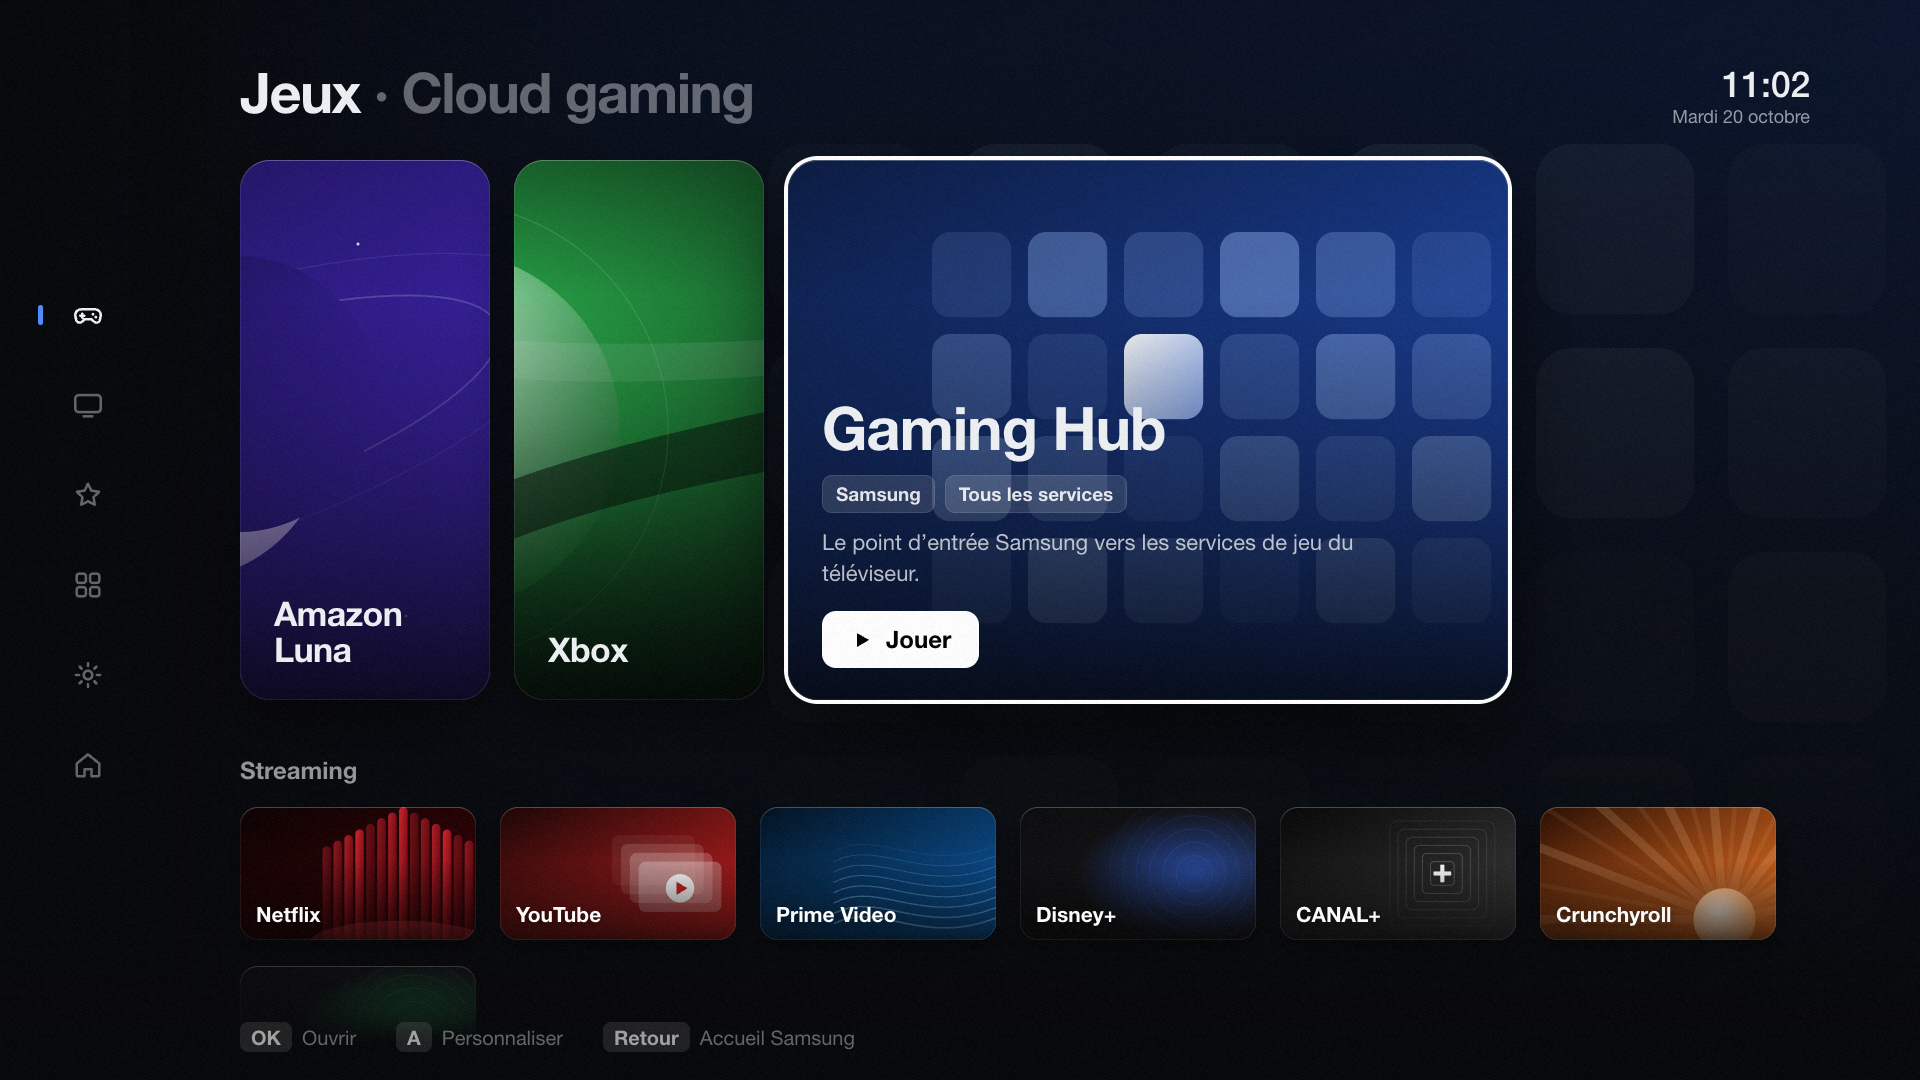
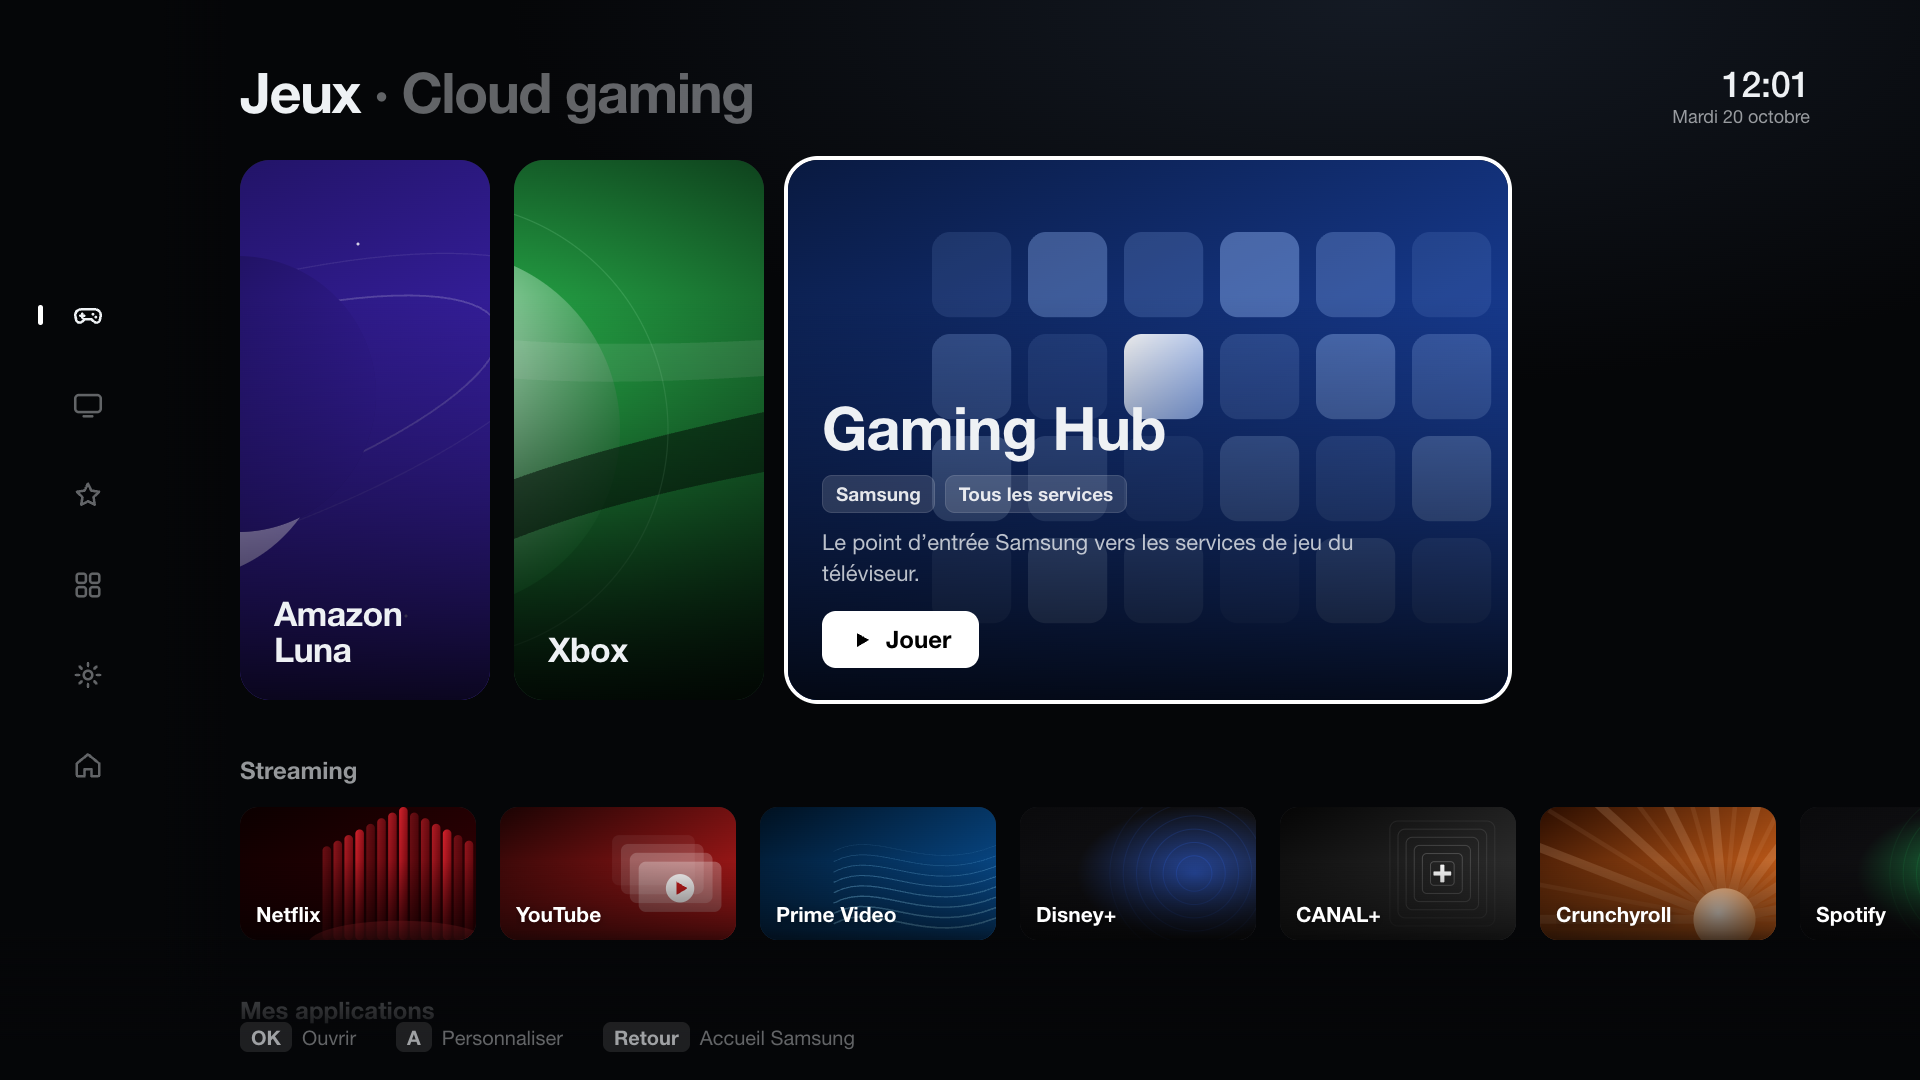
Version allégée pour la TV (lenteur constatée sur le QE55Q70B)
Premier essai sur la TV : tout fonctionne mais l'interface rame.
- Suppression des calques plein écran : ambiance animée, voile, grain
- Plus de variable CSS --accent modifiée à chaque déplacement (recalcul de style global)
- Cartes : plus de reflet animé ni d'ombre floue ; anneau de focus net,
  will-change: transform (rastérisée une fois, agrandie par le GPU)
- Carrousel de jeux : plus d'animation de largeur ni de taille de police
- Transitions de défilement raccourcies
- capture.sh : port configurable (PORT=…)
- Docs : plateforme vérifiée sur la TV (Tizen 6.5), résultat du premier essai

Simulation : 37/37 e2e, 19/19 unitaires, ~0,21 ms par appui (contre ~0,31).

diff --git a/app/css/style.css b/app/css/style.css
@@ -29,21 +29,9 @@ html, body {
    Une scène transformée devient le repère des éléments `position: fixed` qu'elle contient. */
 .stage { position: absolute; left: 0; top: 0; width: 1920px; height: 1080px; overflow: hidden; transform-origin: 0 0; background: var(--bg); }
 
-/* --- Ambiance : illustration du service focalisé, très atténuée --- */
-.ambient { position: fixed; top: 0; left: 0; right: 0; bottom: 0; opacity: 0.36; }
-.amb-layer { position: absolute; top: 0; left: 0; right: 0; bottom: 0; opacity: 0; transition: opacity 700ms ease; }
-.amb-layer.is-in { opacity: 1; }
-.amb-layer svg { width: 100%; height: 100%; display: block; }
-.veil {
-  position: fixed; top: 0; left: 0; right: 0; bottom: 0; pointer-events: none;
-  background:
-    linear-gradient(180deg, rgba(5, 6, 8, 0.15) 0%, rgba(5, 6, 8, 0.75) 55%, var(--bg) 100%),
-    linear-gradient(90deg, var(--bg) 0%, rgba(5, 6, 8, 0) 32%);
-}
-.grain {
-  position: fixed; top: 0; left: 0; right: 0; bottom: 0; z-index: 60; pointer-events: none;
-  background: url(../img/grain.png) repeat; opacity: 0.6;
-}
+/* Performance TV (processeur ARM de la TV) : aucun calque plein écran animé, pas de grain,
+   pas d'ombre floue animée, pas d'animation de largeur. Fond fixe peint une seule fois. */
+.stage { background: radial-gradient(ellipse 70% 55% at 72% 0%, #141a24 0%, var(--bg) 65%); }
 
 /* --- Rail --- */
 .rail {
@@ -60,7 +48,7 @@ html, body {
 .ri.is-current { color: var(--text); }
 .ri.is-current::after {
   content: ""; position: absolute; left: -14px; top: 26px; width: 5px; height: 20px; border-radius: 3px;
-  background: var(--accent);
+  background: #fff;
 }
 .ri.is-focused { background: #fff; color: #000; transform: scale(1.08); }
 .ri .tip {
@@ -88,7 +76,7 @@ html, body {
 /* La zone visible commence 80 px avant le contenu : place pour l'agrandissement au focus,
    et la coupure du défilement tombe sous la partie opaque du fondu côté rail. */
 .viewport { position: fixed; top: 0; left: 160px; right: 0; bottom: 0; overflow: hidden; }
-.rows { padding: 64px var(--right) 400px 80px; transition: transform 380ms var(--ease); will-change: transform; }
+.rows { padding: 64px var(--right) 400px 80px; transition: transform 260ms var(--ease); will-change: transform; }
 .row { padding-bottom: 56px; }
 .row.is-notlast { padding-bottom: 26px; }
 .row-title { font-size: 24px; font-weight: 700; color: var(--text-2); margin-bottom: 22px; transition: color 200ms ease; }
@@ -97,22 +85,16 @@ html, body {
 .row-games .row-title span { color: var(--text-3); font-weight: 600; }
 .row-empty { font-size: 22px; color: var(--text-3); padding: 8px 0 4px; }
 .row.is-empty .track { display: none; }
-.track { display: flex; gap: 24px; align-items: flex-start; transition: transform 300ms var(--ease); will-change: transform; }
+.track { display: flex; gap: 24px; align-items: flex-start; transition: transform 220ms var(--ease); will-change: transform; }
 .no-anim { transition: none !important; }
 
 /* --- Cartes (Streaming, favoris, toutes les apps) --- */
 .tile { flex: 0 0 auto; position: relative; }
 .card {
   position: relative; overflow: hidden; background: var(--surface);
-  box-shadow: 0 10px 24px rgba(0, 0, 0, 0.45);
-  transition: transform 240ms var(--ease), box-shadow 240ms var(--ease);
-}
-.card::after {
-  content: ""; position: absolute; top: 0; left: 0; right: 0; bottom: 0; border-radius: inherit; pointer-events: none;
-  box-shadow: inset 0 1px 0 rgba(255, 255, 255, 0.2), inset 0 0 0 1px rgba(255, 255, 255, 0.07);
-  background: linear-gradient(115deg, rgba(255, 255, 255, 0) 30%, rgba(255, 255, 255, 0.2) 46%, rgba(255, 255, 255, 0) 60%);
-  background-size: 260% 100%; background-position: 120% 0; background-repeat: no-repeat;
-  transition: background-position 900ms var(--ease);
+  box-shadow: inset 0 0 0 1px rgba(255, 255, 255, 0.08);
+  transition: transform 160ms var(--ease);
+  will-change: transform; /* rastérisée une fois, agrandie par le GPU au focus */
 }
 .art { position: absolute; top: 0; left: 0; right: 0; bottom: 0; }
 .art svg { width: 100%; height: 100%; display: block; }
@@ -137,25 +119,19 @@ html, body {
 .tile-sm .mono { font-size: 30px; }
 
 .tile.is-focused > .card {
-  transform: scale(1.09) translateY(-6px);
-  box-shadow: 0 0 0 4px #fff, 0 30px 60px rgba(0, 0, 0, 0.7);
+  transform: scale(1.08);
+  box-shadow: 0 0 0 4px #fff;
 }
-.tile.is-focused > .card::after { background-position: -20% 0; }
 
 /* --- Carrousel des jeux : la carte focalisée s'élargit --- */
 .tile-carousel {
   width: 250px; height: 540px; border-radius: 30px; overflow: hidden; background: var(--surface);
-  box-shadow: 0 20px 50px rgba(0, 0, 0, 0.5);
-  transition: width 360ms var(--ease), box-shadow 280ms ease;
-}
-.tile-carousel::after {
-  content: ""; position: absolute; top: 0; left: 0; right: 0; bottom: 0; border-radius: inherit; pointer-events: none;
-  box-shadow: inset 0 1px 0 rgba(255, 255, 255, 0.22), inset 0 0 0 1px rgba(255, 255, 255, 0.08);
+  box-shadow: inset 0 0 0 1px rgba(255, 255, 255, 0.08);
 }
 .tile-carousel .shade { height: 75%; background: linear-gradient(180deg, rgba(0, 0, 0, 0), rgba(0, 0, 0, 0.85)); }
 .info { position: absolute; left: 34px; right: 34px; bottom: 32px; }
-.info .n { font-size: 34px; font-weight: 800; letter-spacing: -0.02em; line-height: 1.08; transition: font-size 300ms var(--ease); }
-.info .more { max-height: 0; opacity: 0; overflow: hidden; transition: opacity 240ms ease 80ms, max-height 300ms var(--ease); }
+.info .n { font-size: 34px; font-weight: 800; letter-spacing: -0.02em; line-height: 1.08; }
+.info .more { display: none; }
 .info .s { margin-top: 14px; font-size: 22px; line-height: 1.4; color: rgba(238, 241, 244, 0.78); width: 580px; }
 .info .cta {
   margin-top: 22px; display: inline-flex; align-items: center; gap: 12px;
@@ -164,8 +140,8 @@ html, body {
 .info .cta svg { font-size: 24px; }
 .tile-carousel.is-open { width: 720px; }
 .tile-carousel.is-open .n { font-size: 60px; white-space: nowrap; }
-.tile-carousel.is-open .more { max-height: 320px; opacity: 1; }
-.tile-carousel.is-focused { box-shadow: 0 0 0 4px #fff, 0 40px 80px rgba(0, 0, 0, 0.7); }
+.tile-carousel.is-open .more { display: block; }
+.tile-carousel.is-focused { box-shadow: 0 0 0 4px #fff; }
 
 .chips { display: flex; gap: 10px; flex-wrap: wrap; margin-top: 16px; }
 .chips span {
@@ -186,7 +162,7 @@ html, body {
 .tag-fav { color: var(--edit); }
 
 .is-launching > .card, .tile-carousel.is-launching { animation: pulse 900ms ease-in-out infinite; }
-@keyframes pulse { 50% { opacity: 0.7; } }
+@keyframes pulse { 50% { opacity: 0.75; } }
 
 /* --- Rangée réglages (pastilles) --- */
 .tile-pill {
@@ -200,10 +176,10 @@ html, body {
 
 /* --- Personnalisation --- */
 .mode-edit .tile.is-focused > .card,
-.mode-edit .tile-carousel.is-focused { box-shadow: 0 0 0 4px var(--edit), 0 30px 60px rgba(0, 0, 0, 0.7); }
+.mode-edit .tile-carousel.is-focused { box-shadow: 0 0 0 4px var(--edit); }
 .mode-edit .tile-pill.is-focused { background: var(--edit); }
-.tile.is-moving > .card { transform: scale(1.14) translateY(-14px); }
-.tile-carousel.is-moving { box-shadow: 0 0 0 6px var(--edit), 0 40px 80px rgba(0, 0, 0, 0.7); }
+.tile.is-moving > .card { transform: scale(1.12); }
+.tile-carousel.is-moving { box-shadow: 0 0 0 6px var(--edit); }
 
 /* Fondu côté rail : une carte qui défile s'efface au lieu d'être coupée net. */
 .leftfade {

diff --git a/app/js/app.js b/app/js/app.js
@@ -51,7 +51,6 @@
   var el = {
     rows: document.getElementById('rows'),
     rail: document.getElementById('rail'),
-    ambient: document.getElementById('ambient'),
     hints: document.getElementById('hints'),
     badge: document.getElementById('modeBadge'),
     time: document.getElementById('clockTime'),
@@ -428,26 +427,6 @@
       if (track) track.classList.remove('no-anim');
     }
 
-    if (tile) setAmbient(tile);
-  }
-
-  // Ambiance : fondu entre deux calques, déclenché après une courte pause (navigation rapide = pas de travail).
-  var ambientTimer = null, ambientKey = null;
-  function setAmbient(tile) {
-    var key = tile.art ? tile.art + '|' + tile.accent : 'none';
-    document.documentElement.style.setProperty('--accent', tile.accent);
-    if (key === ambientKey) return;
-    clearTimeout(ambientTimer);
-    ambientTimer = setTimeout(function () {
-      ambientKey = key;
-      var layer = h('div', 'amb-layer');
-      if (tile.art) layer.innerHTML = A.svg(tile.art, tile.accent);
-      el.ambient.appendChild(layer);
-      void layer.offsetWidth;
-      layer.classList.add('is-in');
-      var olds = Array.prototype.slice.call(el.ambient.children, 0, -1);
-      setTimeout(function () { olds.forEach(function (o) { if (o.parentNode) o.parentNode.removeChild(o); }); }, 750);
-    }, 140);
   }
 
   // ---------------------------------------------------------------------------

diff --git a/dev/index.html b/dev/index.html
@@ -12,8 +12,6 @@
 </head>
 <body>
   <div class="stage" id="stage">
-    <div class="ambient" id="ambient" aria-hidden="true"></div>
-    <div class="veil" aria-hidden="true"></div>
 
     <nav class="rail" id="rail" aria-label="Sections"></nav>
 
@@ -43,7 +41,6 @@
     </div>
 
     <div class="toast" id="toast" role="status" aria-live="polite"></div>
-    <div class="grain" aria-hidden="true"></div>
   </div>
 
   <script src="../dev/tizen-mock.js"></script>

diff --git a/app/index.html b/app/index.html
@@ -10,8 +10,6 @@
 </head>
 <body>
   <div class="stage" id="stage">
-    <div class="ambient" id="ambient" aria-hidden="true"></div>
-    <div class="veil" aria-hidden="true"></div>
 
     <nav class="rail" id="rail" aria-label="Sections"></nav>
 
@@ -41,7 +39,6 @@
     </div>
 
     <div class="toast" id="toast" role="status" aria-live="polite"></div>
-    <div class="grain" aria-hidden="true"></div>
   </div>
 
   <script src="js/catalog.js"></script>

diff --git a/docs/RAPPORT-DE-TESTS.md b/docs/RAPPORT-DE-TESTS.md
@@ -4,7 +4,7 @@ Date : 20 octobre 2026. Environnement : Mac arm64 (macOS 27.2), Node 20, navigat
 intégré (Chromium récent) émulant 1920×1080, **API Tizen simulée** (`dev/tizen-mock.js`,
 applications fictives).
 
-**Aucun test n'a été fait sur le téléviseur ni dans l'émulateur Samsung.** L'émulateur TV
+**Premiers essais sur le téléviseur (20/10/2026)** : installation réussie, toutes les fonctions répondent ; lenteur signalée, corrigée par une version allégée (à revérifier). L'émulateur Samsung n'a pas été utilisé. L'émulateur TV
 ne fonctionne pas sur Mac Apple Silicon et Tizen Studio n'est pas installé (voir
 [COMPATIBILITE.md](COMPATIBILITE.md)).
 
@@ -69,7 +69,7 @@ ne fonctionne pas sur Mac Apple Silicon et Tizen Studio n'est pas installé (voi
 | Touche Rouge (A) et Retour sur la télécommande physique | Clavier simulé | Télécommande |
 | Restauration du focus après un vrai retour d'app | Événement simulé | Netflix → Home → TV Hub |
 | CPU / mémoire sur la TV | Mesures faites sur Mac | Outils Tizen Studio (si besoin) |
-| Fluidité du carrousel (animation de largeur) et du fondu d'ambiance plein écran | Effets les plus coûteux, non mesurés sur le GPU de la TV | Navigation rapide sur la TV ; repli prévu : désactiver l'ambiance |
+| Fluidité sur la TV | 1re installation (20/10/2026) : **fonctionnel mais très lent**. Version allégée : ambiance plein écran, grain, reflets, ombres floues et animation de largeur supprimés ; ~30 % de travail en moins par appui en simulation | À revérifier sur la TV après réinstallation |
 | Police : Samsung One sur la TV (SF Pro sur le Mac des captures) | Rendu légèrement différent | Visuel sur la TV |
 | Signature, installation, désinstallation | Non autorisé à ce stade | [INSTALLATION.md](INSTALLATION.md) |
 | Démarrage automatique | **Non supporté** (voir [DEMARRAGE.md](DEMARRAGE.md)) | — |

diff --git a/docs/COMPATIBILITE.md b/docs/COMPATIBILITE.md
@@ -9,13 +9,18 @@ officielle ; **Signalé** = forum / tiers ; **Inconnu** = à vérifier sur la TV
 |---|---|---|
 | Modèle | QE55Q70BATXXC (Q70B, 2022) | Vérifié (photo de l'écran « À propos ») |
 | Firmware | T-PTMDEUC-1720.7 | Vérifié (photo) |
-| Plateforme | Tizen 6.5 pour les TV 2022 | Documenté (Samsung, Web Engine Specifications) |
+| Plateforme | Tizen 6.5 pour les TV 2022 | **Vérifié** sur la TV (`sdb capability` : `platform_version:6.5`, `profile_name:tv`, `can_launch:tv-samsung`) |
 | Moteur web | Chromium M85 | Documenté (idem) |
 | Résolution de l'app | 1920×1080 (vidéo 4K à part) | Documenté (Samsung, General Specifications) |
 | Type d'app retenu | Application web Tizen `.wgt`, profil `tv-samsung` | Choix |
 | Lanceur Android TV | **Incompatible** (Tizen n'exécute pas d'APK) | Documenté |
 
-Outils présents sur le Mac (constaté) : macOS 27.2 **arm64**, Node 20, Java 8, Python 3,
+Connexion de développement (vérifié le 20/10/2026) : mode développeur activé, `sdb connect`
+réussi (`QE55Q70BATXXC`), accès root désactivé sur la TV (`sdbd_rootperm:disabled`) — TV Hub
+n'en a pas besoin. Astuce : si `sdb connect` échoue alors que le port 26101 est ouvert,
+relancer le service avec `sdb kill-server` puis réessayer.
+
+Outils présents sur le Mac (constaté au départ) : macOS 27.2 **arm64**, Node 20, Java 8, Python 3,
 zip. **Tizen Studio, la CLI `tizen` et `sdb` ne sont pas installés.**
 
 ## 2. API utilisées (toutes publiques)

diff --git a/README.fr.md b/README.fr.md
@@ -8,8 +8,8 @@ Lanceur personnel minimaliste pour **Samsung QE55Q70BATXXC (QLED 2022)**, firmwa
 Style **« Console »** : rail d'icônes à gauche, grand **carrousel de jeux** dont la carte
 sélectionnée s'élargit (Luna, Xbox, Gaming Hub), carrousels **Streaming**, **Mes
 applications** (favoris), **Toutes les applications**, et **Réglages TV Hub**. Chaque
-service connu a une illustration abstraite originale (aucun logo officiel) qui teinte
-l'ambiance de l'écran. Navigation 100 % télécommande.
+service connu a une illustration abstraite originale (aucun logo officiel). Navigation
+100 % télécommande, allégée pour le processeur ARM de la TV (aucun calque plein écran animé).
 
 ![Aperçu](docs/captures/home.png)
 

diff --git a/README.md b/README.md
@@ -8,8 +8,8 @@ A minimal personal launcher for a **Samsung QE55Q70BATXXC (2022 QLED)** TV, firm
 **"Console"** style: an icon rail on the left, a large **games carousel** whose selected
 card expands (Luna, Xbox, Gaming Hub), and carousels for **Streaming**, **My apps**
 (favorites), **All apps** and **TV Hub settings**. Every known service gets an original
-abstract illustration (no official logos) that tints the screen's ambient light.
-Fully remote-controlled.
+abstract illustration (no official logos). Fully remote-controlled, and kept light for
+the TV's ARM processor (no full-screen animated layers).
 
 ![Preview](docs/captures/home.png)
 
